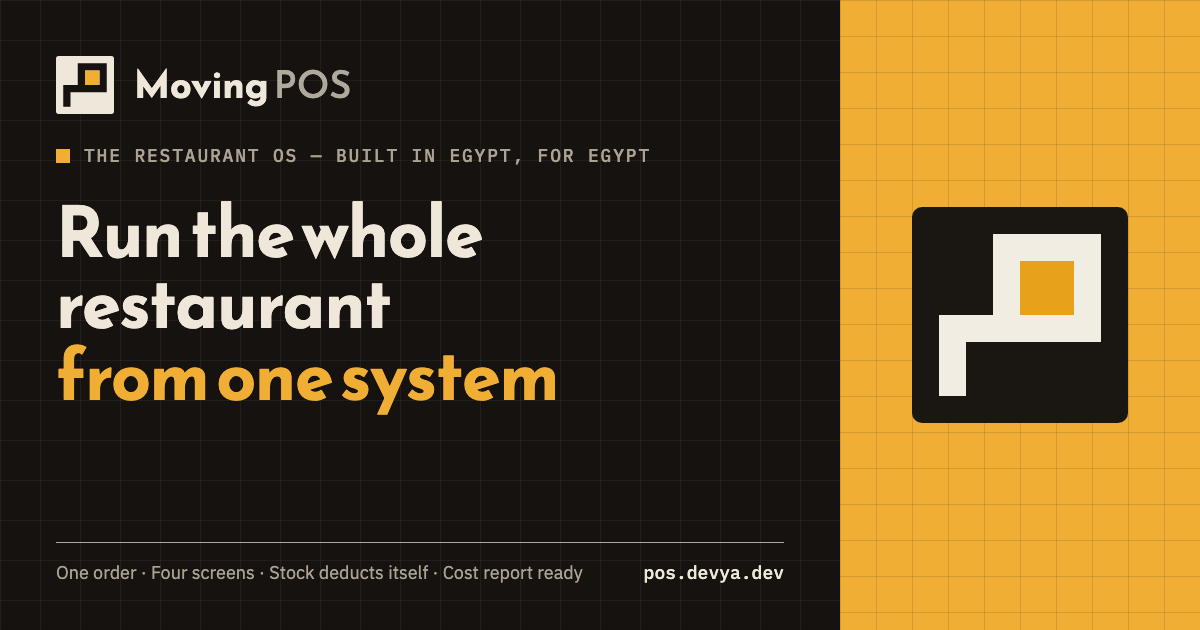
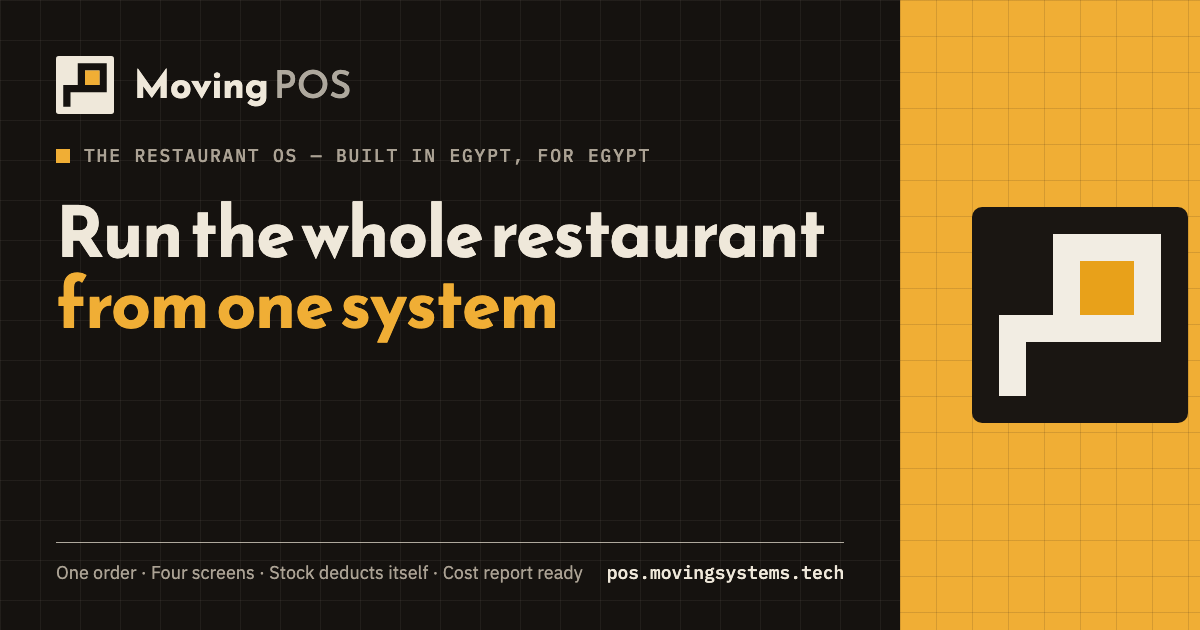
feat(site): Moving POS moves to pos.movingsystems.tech; pos.devya.dev 301s there
The canonical URL, metadata, sitemap, JSON-LD and OG cards now name
pos.movingsystems.tech. The nginx site is versioned as deploy/nginx.conf:
the new host proxies to the container, and pos.devya.dev answers every
path with a 301 to the same path and query on the new host. One
certificate, named pos.movingsystems.tech, covers both names.

scripts/deploy.sh gains --setup, which installs deploy/nginx.conf (keeping
the previous site under /root/devyapos-nginx-pre-*) and issues or expands
the certificate, the way moving-landing's deploy does. The lead payload's
`site` tag stays "pos.devya.dev" so receivers that key on it keep working.

Changed region(s): [[0.4008, 0.0, 1.0, 1.0], [0.0308, 0.4222, 0.4625, 0.6635]]

diff --git a/lib/brand.ts b/lib/brand.ts
@@ -8,13 +8,14 @@
  * keep `devyapos`: storage keys, file and image paths, the container, the
  * repo, and the social handles below.
  *
- * It is named as a Devya product rather than a sister brand, so it lives on a
- * subdomain of the studio's own `devya.dev` instead of taking a new `.dev`
- * registration. Note the house rule: the company is Devya Solutions but the
- * domain is devya.dev, never devya.solutions.
+ * It lives on a subdomain of the Moving family's own domain, movingsystems.tech
+ * (pos.movingsystems.tech since 22 October 2026). The old address,
+ * pos.devya.dev, answers with a 301 to the same path and query here
+ * (deploy/nginx.conf). The studio behind it is Devya Solutions, whose domain
+ * is devya.dev, never devya.solutions.
  *
  * Moving is a product family — Moving Stores (devya-commerce) and the umbrella
- * site at moving.devya.dev (moving-landing) — and the family writes its name
+ * site at movingsystems.tech (moving-landing) — and the family writes its name
  * in Arabic on Arabic pages: موفينج ستورز, موفينج POS. "POS" stays Latin, the
  * way the term is set in Arabic technical prose.
  *
@@ -31,8 +32,8 @@ export const brand = {
     ar: ["موفينج", "POS"],
     en: ["Moving", "POS"],
   },
-  domain: "pos.devya.dev",
-  url: "https://pos.devya.dev",
+  domain: "pos.movingsystems.tech",
+  url: "https://pos.movingsystems.tech",
   email: "devya.solutions@gmail.com",
   /** E.164, no plus — used to build wa.me deep links and tel: hrefs. */
   whatsapp: "201041858781",

diff --git a/tests/tokens.test.ts b/tests/tokens.test.ts
@@ -72,9 +72,9 @@ describe("palette contrast (WCAG AA, 4.5:1 for text)", () => {
 });
 
 describe("brand", () => {
-  it("lives on devya.dev, never devya.solutions", () => {
+  it("lives on movingsystems.tech; the parent is devya.dev, never devya.solutions", () => {
     expect(brand.url).toBe(`https://${brand.domain}`);
-    expect(brand.domain.endsWith(".devya.dev")).toBe(true);
+    expect(brand.domain).toBe("pos.movingsystems.tech");
     expect(brand.parent.url).toBe("https://devya.dev");
   });
 

diff --git a/tests/privacy.test.ts b/tests/privacy.test.ts
@@ -31,7 +31,7 @@ const sources = SOURCE_DIRS.flatMap((d) => files(join(root, d))).map((path) => (
 
 /** Hosts the source may name: this site, its family, and plain navigation targets. */
 const ALLOWED_HOSTS = new Set([
-  "pos.devya.dev",
+  "pos.movingsystems.tech",
   "devya.dev",
   "wa.me",
   "schema.org",

diff --git a/docs/spec.md b/docs/spec.md
@@ -18,9 +18,10 @@ future lead-form POST (`next.config.ts`). Fully static marketing content.
 
 Public marketing site for **Moving POS** (named DevyaPOS until 2026-10-18 and Drinki POS until 2026-10-19; visible name only, identifiers keep `devyapos`), the productised, sellable version of
 the BóHub POS platform — "Devya's restaurant operating system for the
-Egyptian market." Live at **https://pos.devya.dev** (Vercel project
-`devyapos`, auto-deploys `main`; domain is an `A → 76.76.21.21` record on
-Hostinger's `devya.dev` zone).
+Egyptian market." Live at **https://pos.movingsystems.tech** (Devya VPS
+behind nginx, `scripts/deploy.sh`; DNS-only `A → 72.61.81.59` on Cloudflare's
+`movingsystems.tech` zone). The address until 2026-10-22, `pos.devya.dev`,
+answers with a 301 to the same path and query there (`deploy/nginx.conf`).
 
 - **Arabic default, everyone**: `i18n/routing.ts` sets
   `defaultLocale: "ar"` and `localeDetection: false` — bare `/` always
@@ -31,9 +32,9 @@ Hostinger's `devya.dev` zone).
   A boot script (`components/ThemeToggle.tsx` → `themeBootScript`) inlined in
   `<head>` applies any stored `localStorage` choice before first paint so
   there's no flash; the toggle itself lives in the header.
-- The product is framed as a Devya Solutions product on a subdomain
-  (`pos.devya.dev`) rather than a sister brand with its own `.dev`
-  registration — see `lib/brand.ts` header comment.
+- The product lives on a subdomain of the Moving family's domain
+  (`pos.movingsystems.tech`), beside the umbrella site (`movingsystems.tech`)
+  — see `lib/brand.ts` header comment.
 - The whole site is proven against one real reference deployment: BóHub, a
   25-branch Egyptian bubble-tea chain (`brand.flagship` in `lib/brand.ts`,
   linked from `/about`). All screenshots, the promo clip, and the concrete
@@ -221,8 +222,8 @@ could legitimately attack).
 export const brand = {
   name: { ar: "موفينج POS", en: "Moving POS" },
   wordmark: { ar: ["موفينج", "POS"], en: ["Moving", "POS"] },
-  domain: "pos.devya.dev",
-  url: "https://pos.devya.dev",
+  domain: "pos.movingsystems.tech",
+  url: "https://pos.movingsystems.tech",
   email: "devya.solutions@gmail.com",
   whatsapp: "201055930032",           // E.164, no plus
   phoneDisplay: "+20 105 593 0032",

diff --git a/README.md b/README.md
@@ -2,7 +2,8 @@
 
 The public marketing site for **Moving POS** — موفينج POS on Arabic pages —
 (Drinki POS until 2026-10-19, DevyaPOS until 2026-10-18),
-Devya's restaurant operating system for the Egyptian market. Live at **https://pos.devya.dev** (Arabic by
+Devya's restaurant operating system for the Egyptian market. Live at **https://pos.movingsystems.tech**
+(`https://pos.devya.dev` answers with a 301 to the same path and query there; Arabic by
 default, `/en` for English; light theme by default, the toggle remembers a choice).
 
 Next.js App Router + next-intl (RTL-first) + Tailwind. Fully static content —
@@ -41,10 +42,18 @@ pnpm build
 Germany — `72.61.81.59`): a `git archive` over SSH, a backup of the running
 release under `/root/devyapos-pre-*`, then `docker compose -f
 docker-compose.prod.yml up -d --build`, container `devya-devyapos` on
-`127.0.0.1:3009` behind nginx and a Let's Encrypt certificate for
-`pos.devya.dev` (an `A → 72.61.81.59` record). `--rollback` puts the newest
+`127.0.0.1:3009` behind nginx. `--rollback` puts the newest
 backup back. The site left Vercel on 2026-09-25; the old Vercel project
 should be disconnected from this repo so it cannot serve a second copy.
+
+The nginx site is `deploy/nginx.conf`: `pos.movingsystems.tech` serves the
+container, and `pos.devya.dev` (the address until 2026-10-22) answers every
+path with a 301 to the same path and query on the new host. One Let's Encrypt
+certificate, named `pos.movingsystems.tech`, covers both names. Both are
+DNS-only (grey) `A → 72.61.81.59` records on Cloudflare, in the
+`movingsystems.tech` and `devya.dev` zones. `bash scripts/deploy.sh --setup`
+installs the site and issues or expands the certificate; DNS for both names
+must already point at the VPS.
 
 ### Leads that are not forwarded
 
